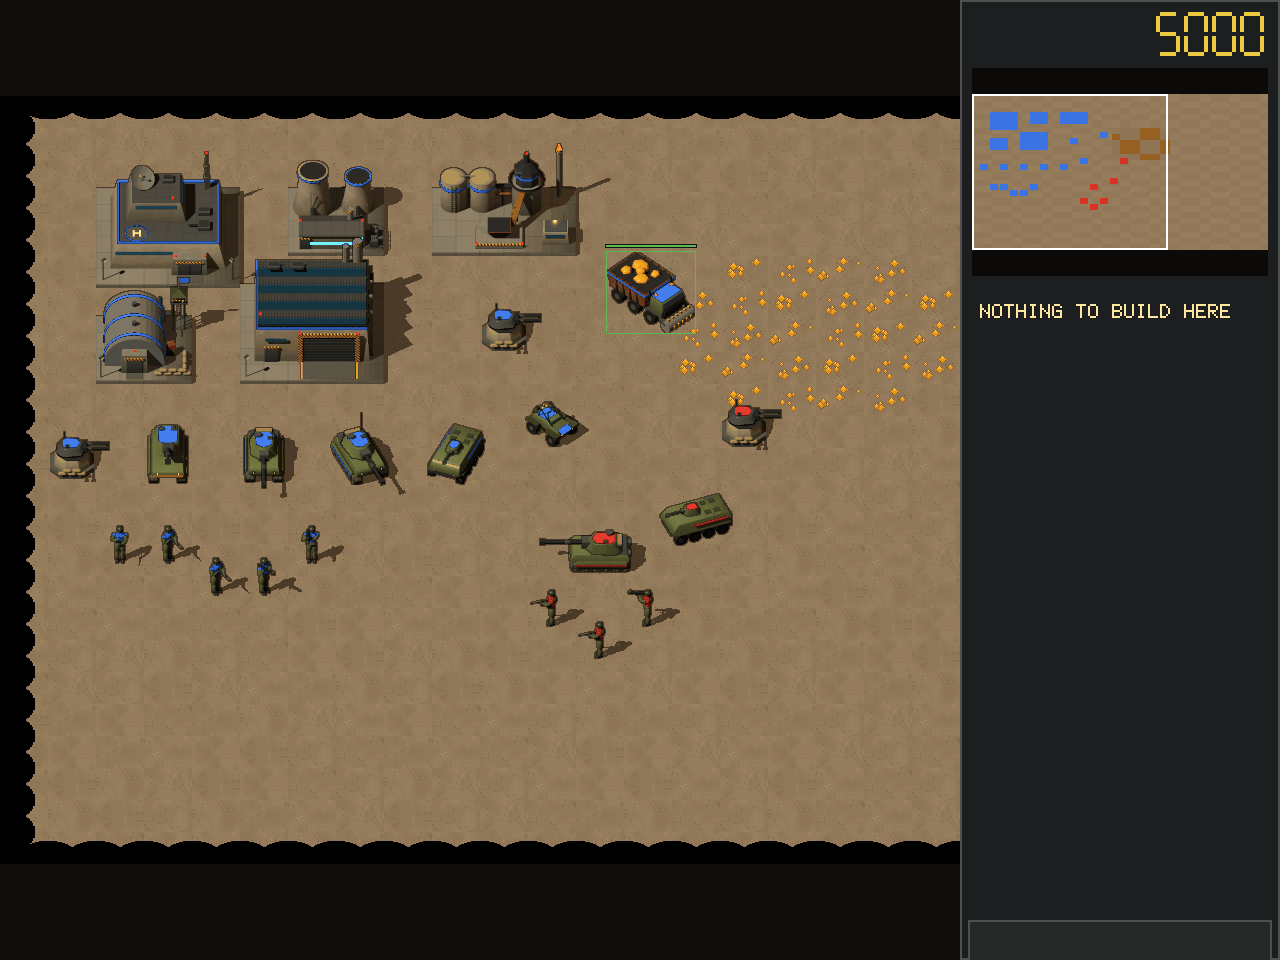
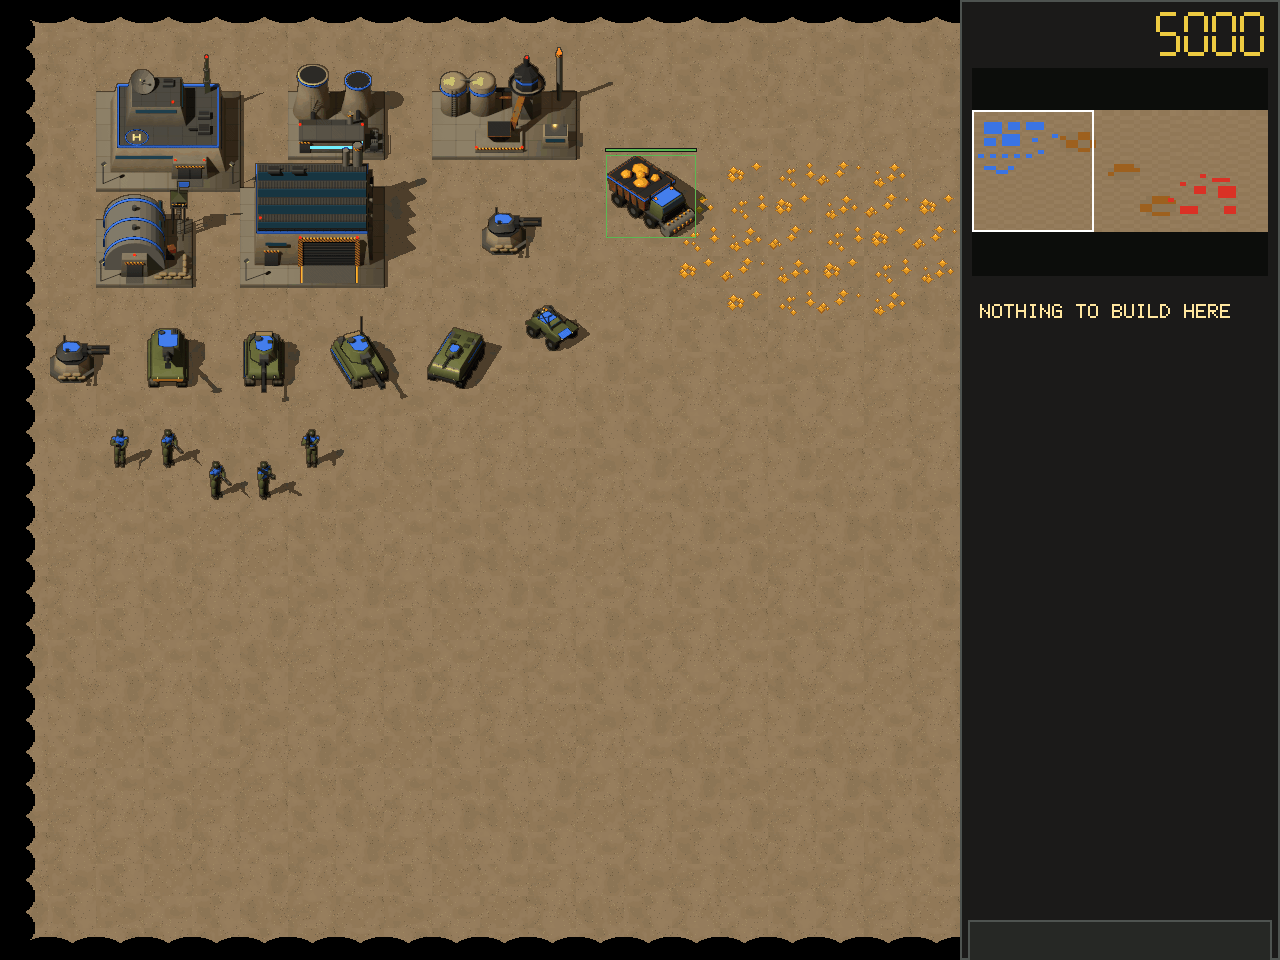
Give Rustfront a computer opponent
Red now plays: the engine's computer player runs Rustfront's faction
(rules.c), a C&C opening of power, barracks and riflemen, refinery and a
second harvester, the War Factory, gun turrets and a first armoured
group, then a doctrine that keeps two harvesters and two turrets per
base, masses a weighted mix of every unit up to 28 and attacks in waves
of 6 to 16 when it matches the enemy, retreating when outmatched.

g_ai.c gives the AI its own structure purchase: it picks the nearest
site to its Command Center with a free cell all round and places it as
the player does, so its structures rise on scaffolding too. Every
structure anchors its defence and draws its waves.

The skirmish map grows to 48 x 30 with a red base and ore field
opposite Blue's and a contested field between. Rustfront now runs the
shared AI, ruleset and tech-path suites, and tests/rustfront/test_ai.c
plays eight minutes: Red builds on roomy rising sites, harvests, fields
a 26-strong army and brings a wave to Blue's base.

diff --git a/tests/rustfront/test_ai.c b/tests/rustfront/test_ai.c
@@ -1,0 +1,118 @@
+#include "t_local.h"
+#include "engine.h"
+#include "../../games/rustfront/info.h"
+#include "../../games/rustfront/rustfront.h"
+
+#include <stdlib.h>
+#include <string.h>
+
+#define CHECK(c) RTS_CHECK(c, "rustfront ai", #c)
+
+static int count_owned(int owner, uint16_t type) {
+    int n = 0;
+    for (thinker_t *th = thinkercap.next; th != &thinkercap; th = th->next) {
+        const mobj_t *u = (const mobj_t *)th;
+        n += th->function == P_MobjThinker && u->owner == owner && u->type_id == type && !u->remove && u->hp > 0;
+    }
+    return n;
+}
+
+/* OPEN_RTS_RUSTFRONT_SHOTS=dir saves the world around `cell` as the game draws it. */
+static void shot(const char *name, ivec2_t cell) {
+    const char *dir = getenv("OPEN_RTS_RUSTFRONT_SHOTS");
+    if (!dir) return;
+    static tileset_t tiles;
+    static spritecache_t cache;
+    static spritesheet_t fallback;
+    static bool loaded;
+    app_t app = {.win = {640, 480}, .cell = {48, 32}, .running = true};
+    mobjlist_t list = P_ListMobjs();
+    if (!loaded) {
+        loaded = W_LoadAssets(g_game_default_root, &level, NULL, &tiles, &fallback) &&
+                 R_InitSprites(g_game_default_root, &level, list.items, list.count, &cache);
+        V_AllocScreen(640, 480);
+    }
+    R_InitSprites(g_game_default_root, &level, list.items, list.count, &cache);
+    R_SetLevelPalette(&tiles);
+    app.cam.x = -(cell.x * 48 - 320);
+    app.cam.y = -(cell.y * 32 - 240);
+    P_UpdateSight();
+    V_BeginFrame(0xff000000u);
+    R_DrawLevel(&app, &level, &tiles);
+    R_RenderPlayerView(&app, &level, &tiles, list.items, list.count, &fallback, &cache, gameinfo, 0);
+    SDL_Surface *surface = SDL_CreateRGBSurfaceWithFormat(0, 640, 480, 32, SDL_PIXELFORMAT_ARGB8888);
+    if (surface) {
+        V_ReadPixels(surface->pixels, surface->pitch);
+        char path[1024];
+        snprintf(path, sizeof(path), "%s/rustfront-%s.bmp", dir, name);
+        SDL_SaveBMP(surface, path);
+        SDL_FreeSurface(surface);
+    }
+    P_FreeMobjList(&list);
+}
+
+/* Red, the computer, on the skirmish map: it builds its factory and turrets as rising sites
+ * on spaced-out ground, keeps harvesting, fields a mixed army and brings a wave to Blue's
+ * base. Blue (owner 0) is the human and does nothing. */
+static int test_red_plays(void) {
+    RtsGameModel *model = rts_game_model_create();
+    RtsGameModelConfig config = {.data_root = g_game_default_root};
+    CHECK(rts_game_model_load(model, &config));
+    AiContext *ai = rts_game_model_ai(model);
+    CHECK(ai && G_AiInterface());
+    int red = 1;
+    int start = level.player_resources[red][0];
+    bool saw_site = false, saw_red_near_blue = false, sites_roomy = true;
+    int max_army = 0;
+    for (int t = 0; t < 30 * 60 * 8; ++t) {
+        CHECK(rts_game_model_tick(model, RTS_TICK_MS));
+        const mobj_t *site = RF_SiteInProgress(red);
+        if (site && !saw_site) {
+            saw_site = true;
+            /* AI sites keep a free cell all round. */
+            irect_t c = P_MobjCells(site);
+            for (thinker_t *th = thinkercap.next; th != &thinkercap; th = th->next) {
+                const mobj_t *u = (const mobj_t *)th;
+                if (th->function != P_MobjThinker || u == site || u->remove || (u->traits & MF_MOBILE) ||
+                    !u->info || u->info->footprint.w <= 0) continue;
+                irect_t o = P_MobjCells(u);
+                if (o.x < c.x + c.w + 1 && c.x < o.x + o.w + 1 && o.y < c.y + c.h + 1 && c.y < o.y + o.h + 1)
+                    sites_roomy = false;
+            }
+        }
+        int army = 0;
+        for (thinker_t *th = thinkercap.next; th != &thinkercap; th = th->next) {
+            const mobj_t *u = (const mobj_t *)th;
+            if (th->function != P_MobjThinker || u->owner != red || u->remove || u->hp <= 0 ||
+                !(u->traits & MF_ATTACK) || !(u->traits & MF_MOBILE)) continue;
+            army++;
+            ivec2_t at = fixed2_cell(fixed3_xy(u->core.position));
+            if (at.x < 14 && at.y < 16 && !saw_red_near_blue) {
+                saw_red_near_blue = true;
+                shot("ai-attack", at);
+            }
+        }
+        if (army > max_army) max_army = army;
+        if (t == 30 * 60 * 4) shot("ai-base", (ivec2_t){37, 20});
+    }
+    const AiStats *stats = P_AiStats(ai, red);
+    printf("red after 8 minutes: buys %d, waves %d, harvest orders %d, credits %d -> %d, "
+           "factories %d, turrets %d, harvesters %d, largest army %d\n",
+           stats->purchases, stats->waves, stats->harvest_orders, start, level.player_resources[red][0],
+           count_owned(red, MT_FACTORY), count_owned(red, MT_GUN_TURRET), count_owned(red, MT_HARVESTER), max_army);
+    CHECK(saw_site && sites_roomy);
+    CHECK(count_owned(red, MT_FACTORY) >= 1 && count_owned(red, MT_GUN_TURRET) >= 2);
+    CHECK(count_owned(red, MT_HARVESTER) >= 2);
+    CHECK(stats->purchases >= 15 && max_army >= 8);
+    CHECK(stats->waves >= 1 && saw_red_near_blue);
+    rts_game_model_destroy(model);
+    puts("PASS: red builds on rising sites, harvests, masses a mixed army and attacks Blue's base");
+    return 0;
+}
+
+int main(void) {
+    CHECK(SDL_Init(SDL_INIT_VIDEO) == 0);
+    RTS_RUN(test_red_plays());
+    SDL_Quit();
+    return 0;
+}

diff --git a/games/rustfront/g_ai.c b/games/rustfront/g_ai.c
@@ -1,0 +1,62 @@
+#include "engine.h"
+#include "info.h"
+#include "rustfront.h"
+
+/* The computer player is the engine's (play/p_ai.c) with Rustfront's faction (rules.c). Two
+ * things are Rustfront's own: it places structures itself, on spaced-out sites near its
+ * Command Center, so they rise on scaffolding as the player's do (g_build.c); and every
+ * structure anchors its defence and is a target for its waves, not only refineries. */
+
+/* A site with a free cell all round it, so units still find their way between buildings. */
+static bool roomy(uint16_t type, ivec2_t cell, const mobj_t *builder) {
+    const mobjtype_t *info = P_ActorType(type);
+    if (!info || !P_CanPlaceBuilding(type, cell, builder)) return false;
+    for (int y = cell.y - 1; y <= cell.y + info->footprint.h; ++y)
+        for (int x = cell.x - 1; x <= cell.x + info->footprint.w; ++x)
+            if (!L_Contains(&level, x, y) || level.blocked[L_Index(&level, x, y)]) return false;
+    return true;
+}
+
+/* The nearest roomy site to the Command Center, searched ring by ring. */
+static bool find_site(const mobj_t *hq, uint16_t type, ivec2_t *out) {
+    ivec2_t origin = fixed2_cell(fixed3_xy(hq->core.position));
+    int limit = level.width > level.height ? level.width : level.height;
+    for (int r = 2; r <= limit; ++r)
+        for (int y = -r; y <= r; ++y)
+            for (int x = -r; x <= r; ++x) {
+                if (abs(x) != r && abs(y) != r) continue;
+                ivec2_t cell = ivec2_add(origin, (ivec2_t){x, y});
+                if (roomy(type, cell, hq)) { *out = cell; return true; }
+            }
+    return false;
+}
+
+static mobj_t *command_center(int owner) {
+    for (thinker_t *th = thinkercap.next; th && th != &thinkercap; th = th->next) {
+        mobj_t *unit = (mobj_t *)th;
+        if (th->function == P_MobjThinker && unit->owner == owner && unit->type_id == MT_HQ &&
+            !unit->remove && unit->hp > 0) return unit;
+    }
+    return NULL;
+}
+
+/* Structures go on a site the AI picks; everything else through the catalog. */
+static bool purchase(level_t *map, int owner, int ui_id) {
+    const StaticProductDefinition *product = G_ModelProductByUIId(NULL, ui_id);
+    if (!product || product->product_class != RTS_PRODUCT_BUILDING) return G_AiCatalogPurchase(map, owner, ui_id);
+    mobj_t *hq = command_center(owner);
+    ivec2_t cell;
+    if (!hq || RF_SiteInProgress(owner) || !find_site(hq, (uint16_t)product->product_type, &cell)) return false;
+    return G_PlaceProduct(hq, product, cell);
+}
+
+static const AiGameInterface rf_ai = {
+    .name = "rustfront",
+    .features = AI_FEATURE_ECONOMY | AI_FEATURE_PRODUCTION | AI_FEATURE_DEFENSE |
+                AI_FEATURE_ATTACK | AI_FEATURE_DOCTRINE,
+    .player_level = P_AiLevelNonHuman,
+    .purchase = purchase,
+    .is_anchor = G_AiIsStructure,
+};
+
+const AiGameInterface *G_AiInterface(void) { return &rf_ai; }

diff --git a/games/rustfront/rules.c b/games/rustfront/rules.c
@@ -1,13 +1,37 @@
 #include "engine.h"
+#include "info.h"
 
-/* No factions, economy or computer player yet: the skirmish map is a sandbox. */
+/* Rustfront's one faction, for the computer player (play/p_ai.c, g_ai.c). Product ids are
+ * catalog ui_ids, which are the actor types (p_prod.c).
+ *
+ * The opening is a C&C build: power, a barracks and a few riflemen to hold the base, the
+ * refinery (it brings a harvester) and a second harvester, the War Factory, two gun turrets,
+ * then a first armoured group. After it the doctrine keeps two harvesters and two turrets per
+ * base, masses a mixed army and attacks once it matches what it has seen of the enemy. */
+static const AiStep opening[] = {
+    {MT_POWER, 1}, {MT_BARRACKS, 1}, {MT_RIFLEMAN, 3}, {MT_REFINERY, 1}, {MT_RIFLEMAN, 5},
+    {MT_FACTORY, 1}, {MT_HARVESTER, 2}, {MT_GUN_TURRET, 1}, {MT_TANK, 2}, {MT_ROCKET, 3},
+    {MT_GUN_TURRET, 2}, {MT_APC, 1}, {MT_TANK, 4}, {MT_ARTILLERY, 1},
+};
+
+static const faction_t factions[1] = {
+    [0] = {.name = "Rustfront",
+           .opening = opening, .opening_count = (int)(sizeof(opening) / sizeof(*opening)),
+           .wave_interval_ms = 75000, .wave_min_size = 6, .wave_max_size = 16,
+           .doctrine = {.workers = 2, .defenses = 2, .army_cap = 28, .attack_ratio = 100, .retreat_ratio = 40,
+                        .roster = {{MT_HARVESTER, 0}, {MT_GUN_TURRET, 0}, {MT_RIFLEMAN, 30}, {MT_ROCKET, 25},
+                                   {MT_TANK, 30}, {MT_APC, 8}, {MT_ARTILLERY, 10}, {MT_SCOUT, 5}},
+                        .roster_count = 8}},
+};
+
+/* A side plays the faction once it has a Command Center to build from. */
 static int faction_of(const level_t *map, int owner) {
-    (void)map; (void)owner;
-    return -1;
+    (void)map;
+    return G_ModelHasActorType(NULL, owner, MT_HQ) ? 0 : -1;
 }
 
 const ruleset_t g_ruleset = {
     .game = "rustfront",
     .policy = { .input = INPUT_LEFT_SELECT_ORDER, .sight = SIGHT_OPEN },
-    .faction_of = faction_of,
+    .factions = factions, .faction_count = 1, .faction_of = faction_of,
 };

diff --git a/games/rustfront/p_prod.c b/games/rustfront/p_prod.c
@@ -126,6 +126,3 @@ bool G_ModelProducerHasTech(const mobj_t *producer, const StaticProductDefinitio
     return true;
 }
 
-const AiGameInterface *G_AiInterface(void) {
-    return NULL;
-}

diff --git a/games/rustfront/README.md b/games/rustfront/README.md
@@ -27,6 +27,8 @@ and loaded by its own open-rts binary.
 
 ![A War Factory going up, and one burning](art/previews/construction.png)
 
+![Red's base four minutes in, and a red wave at Blue's ore field](art/previews/ai.png)
+
 ## Play
 
 ```sh
@@ -36,8 +38,23 @@ build/bin/rustfront --map maps/skirmish.txt
 env SDL_VIDEODRIVER=dummy build/bin/rustfront --check
 ```
 
-One skirmish map (`maps/skirmish.txt`) holds a blue base and force, an ore field
-and a red patrol. There is no computer player yet: red only defends itself.
+One skirmish map (`maps/skirmish.txt`, 48 x 30 cells): Blue (you) top left, Red
+(the computer) bottom right, each with an ore field, and a contested field in the
+middle.
+
+**The computer** is the engine's AI (`play/p_ai.c`) playing Rustfront's faction
+(`rules.c`):
+
+- **Opening:** a C&C build order of power, barracks and riflemen, then the
+  refinery and a second harvester, the War Factory, gun turrets and a first
+  armoured group.
+- **After the opening:** it keeps two harvesters and two turrets per base, and
+  masses a mixed army of riflemen, rocket soldiers, tanks, artillery, APCs and
+  scouts, up to 28 units.
+- **Attack:** it attacks in waves of 6 to 16 once it matches what it has seen of
+  you, and falls back when a wave is outmatched.
+- **Building:** its structures rise on scaffolding like yours (`g_ai.c` picks
+  sites near its Command Center with a free cell all round).
 
 **Sidebar:**
 - **Credits:** the counter at the top.
@@ -85,7 +102,9 @@ again to queue more, up to 9. A new refinery arrives with a free harvester.
 | `g_combat.c` | Shells and rockets: tanks, gun turrets, artillery and rocket soldiers launch a projectile that does its damage on arrival (the artillery's arcs and splashes; rockets trail smoke) |
 | `g_build.c` | Construction sites that rise through four stages while their hit points grow; scorched looks below half health |
 | `g_mission.c` | Footprints block movement, idle harvesters go to ore, mined cells clear, a refinery brings a harvester; impact puffs and explosions on damage and death |
-| `rules.c`, `m_menu.c` | No fog, and the engine's simple menu |
+| `rules.c` | The faction for the computer player: opening build, doctrine, army roster; no fog |
+| `g_ai.c` | The computer player's hooks: it places its own structures on roomy sites, and every structure anchors its defence and draws its waves |
+| `m_menu.c` | The engine's simple menu |
 
 **Map format:** rows of `.` (sand), `*` (ore) or `#` (gravel) cells, then
 `unit NAME OWNER X Y [FACING]` lines. Each `*` cell is an ore deposit. X and Y are the cell (a building's

diff --git a/CLAUDE.md b/CLAUDE.md
@@ -49,6 +49,6 @@ Each game has its own binary in `build/bin/`:
 - `build/bin/kknd`         — KKnD
 - `build/bin/warcraft-2`   — Warcraft II (`data/WAR2/ALAMO.PUD`)
 - `build/bin/z`            — Z (`data/Z/LEVEL01/LEVEL01.MAP`; formats in `docs/Z_FORMATS.md`)
-- `build/bin/rustfront`    — Rustfront (`games/rustfront/maps/skirmish.txt`; art pipeline in `games/rustfront/docs/SCENER.md`)
+- `build/bin/rustfront`    — Rustfront, an original game vs. the engine AI (`games/rustfront/maps/skirmish.txt`; art pipeline in `games/rustfront/docs/SCENER.md`)
 
 No `--game` flag needed. No dynamic plugin loading.
